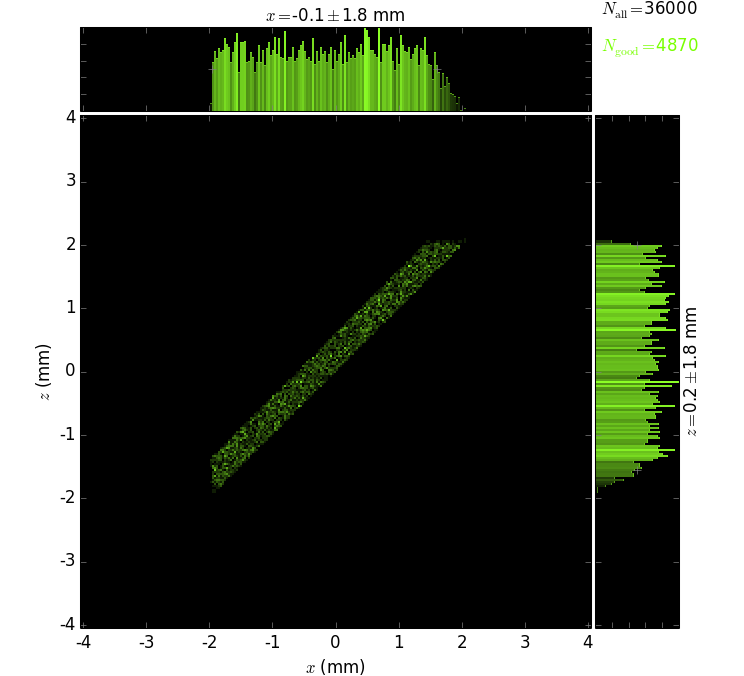
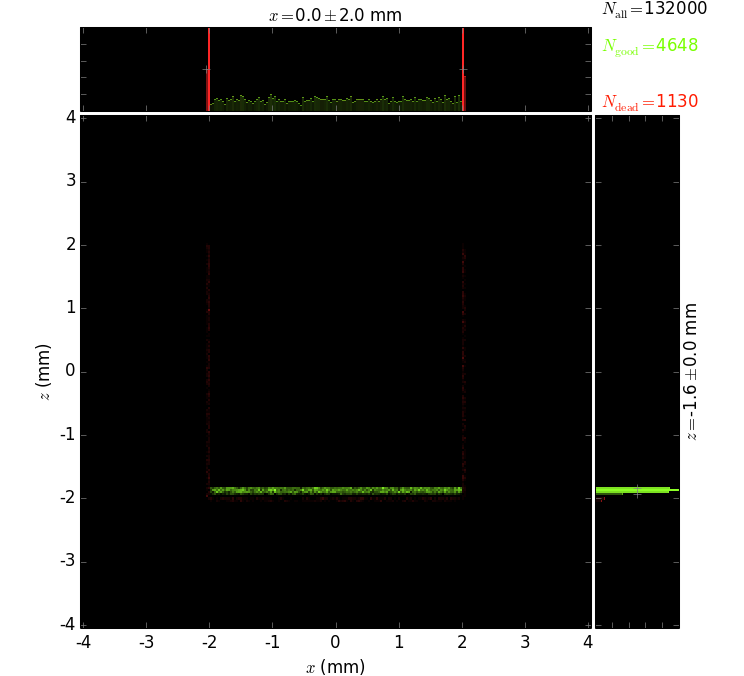
Shape research wip

diff --git a/object_testing.py b/object_testing.py
@@ -95,7 +95,7 @@ def build_beamline(nrays=1000):
 #                   roll=0*np.pi/3., limPhysX=limPhysX)
     thing = CustomShape(beamLine, 'thing', material=mGlass,\
                    R = 1.0, limPhysY=limPhysY,\
-                   roll=0*np.pi/3., limPhysX=limPhysX)
+                   roll=0.*np.pi, limPhysX=limPhysX)
     
     # Contain
     beamLine.things.append(thing)
@@ -132,7 +132,7 @@ def main():
     plots = []
 
     # Plot creation
-    plot = xrtp.XYCPlot('screen_{0:02d}'.format(D_),(-1,),
+    plot = xrtp.XYCPlot('screen_{0:02d}'.format(D_),(3,),
         xaxis=xrtp.XYCAxis(r'$x$', 'mm',\
                            bins=256, ppb=2,\
                            limits=xLimits),
@@ -143,13 +143,13 @@ def main():
         title='Distance from source = {0:02d} [mm]'.format(D_))
 
     # Names
-    plot.baseName = 'objec_dead'
+    plot.baseName = 'object_over'
     plot.saveName = 'png/object/' + plot.baseName + '.png'
 
     plots.append(plot)
 
     # Plot creation
-    plot = xrtp.XYCPlot('screen_{0:02d}'.format(D_),(1,),
+    plot = xrtp.XYCPlot('screen_{0:02d}'.format(D_),(1,-1,),
         xaxis=xrtp.XYCAxis(r'$x$', 'mm',\
                            bins=256, ppb=2,\
                            limits=xLimits),

diff --git a/customobjects.py b/customobjects.py
@@ -11,7 +11,7 @@ class CustomShape(roe.OE):
 
     def local_n(self, x, y):
         # x
-        a = 1.0
+        a = 0.0
         # y
         b = 4.0
         # z
@@ -20,7 +20,7 @@ class CustomShape(roe.OE):
         return [a/norm, b/norm, c/norm]
 
     def local_z(self, x, y):
-        return x + 4.*(y - self.limPhysY[0])
+        return -2. + 1.*(y - self.limPhysY[0])
 
 if __name__ == '__main__':
     verts = [
